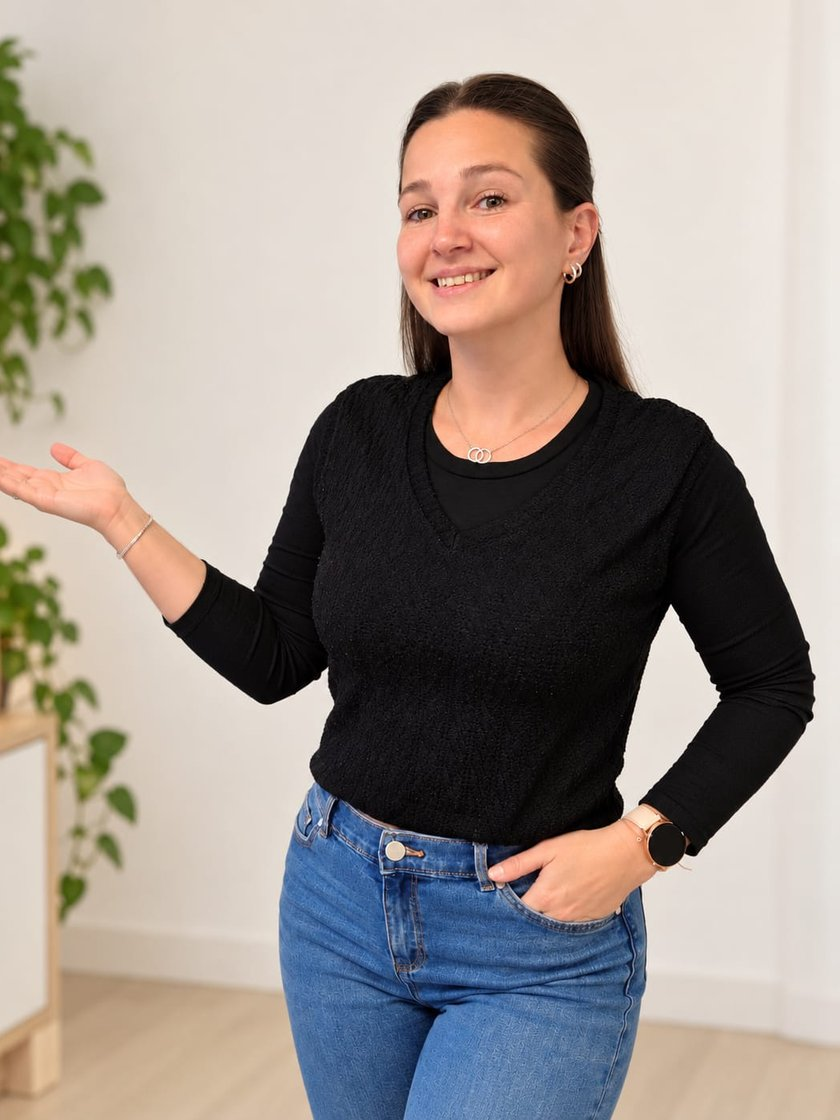
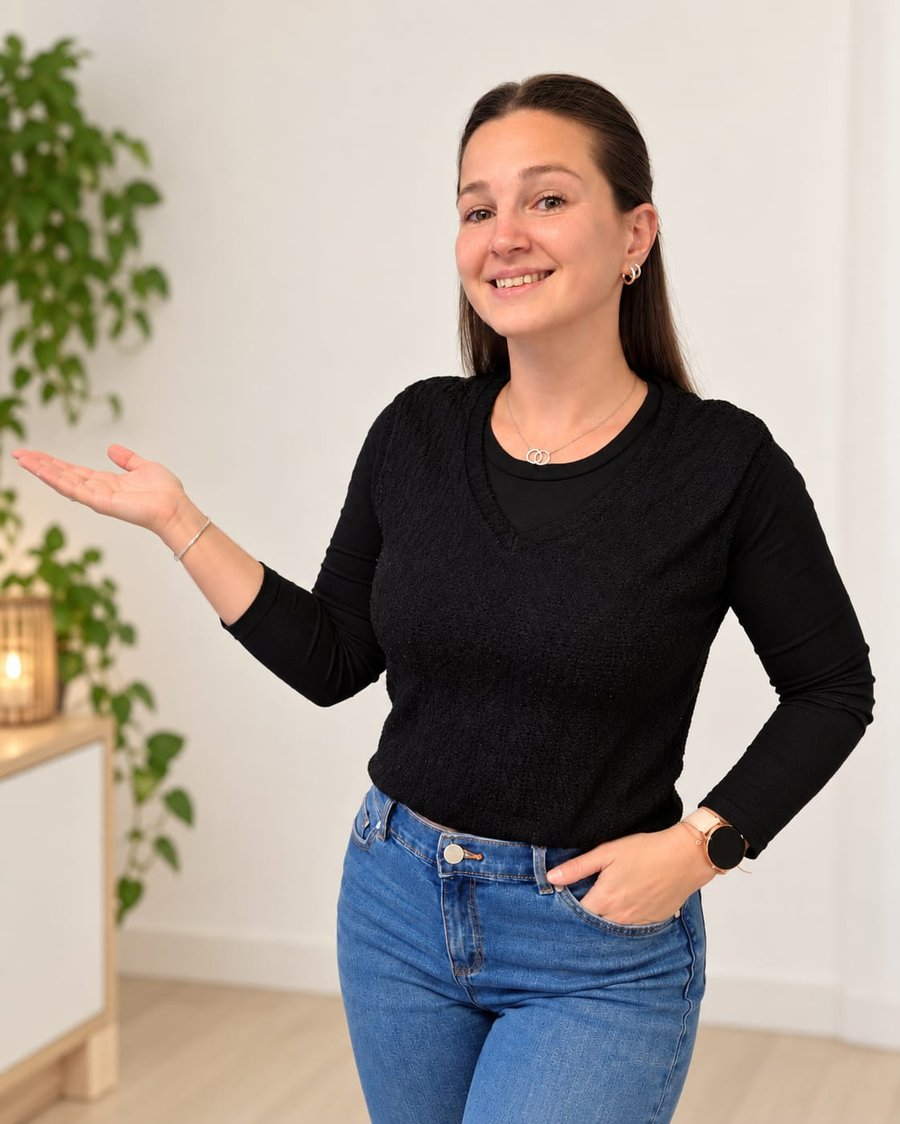
Add files via upload

diff --git a/index.html b/index.html
@@ -81,7 +81,7 @@
     </div>
 
     <figure class="hero__foto">
-      <img src="/img/home-hero.jpg" alt="Marina Santor sonriendo, con la mano abierta en gesto de bienvenida" width="840" height="1120">
+      <img src="/img/home-hero.jpg" alt="Marina Santor sonriendo, con la mano abierta en gesto de bienvenida" width="900" height="1124">
     </figure>
   </div>
 </section>
@@ -280,13 +280,9 @@
 <!-- ================= NADAENSULUGAR ================= -->
 <section class="sec sec--nadaensulugar" id="nadaensulugar">
   <div class="env partido">
-    <div class="marco marco--ancho">
-      <div class="marco__tx">
-        <svg viewBox="0 0 24 24" fill="none" stroke="currentColor" stroke-width="1.5" aria-hidden="true"><rect x="3" y="5" width="18" height="14" rx="2"/><circle cx="9" cy="10" r="1.8"/><path d="M3 17l5-4.5 4 3.5 3-2.5 6 5"/></svg>
-        <b>Foto del espacio presencial</b>
-        <span>Ambiente Montessori de NADAENSULUGAR, apaisada y luminosa</span>
-      </div>
-    </div>
+    <figure class="nesl-foto">
+      <img src="/img/nesl-espacio.jpg" alt="NADAENSULUGAR, espacio para la niñez" width="1440" height="900" loading="lazy">
+    </figure>
 
     <div class="partido__tx">
       <h2 class="nesl__marca">NADAENSULUGAR</h2>
@@ -311,17 +307,17 @@
 
     <div class="testis">
       <article class="testi">
-        <p>&ldquo;Feliz día Maruuuu! Te queremos mucho, gracias por haber sido vos quien nos marcó el comienzo de este camino. Besitos enormes!!&rdquo;</p>
+        <p>&ldquo;Qué lindo tener un espacio así para los peques!! Tuvimos la oportunidad de ir y es sumamente necesario que existan espacios como NADAENSULUGAR.&rdquo;</p>
         <span class="testi__quien">Familia de NADAENSULUGAR</span>
         <svg class="testi__cor" viewBox="0 0 24 24" fill="currentColor" aria-hidden="true"><path d="M12 21c-5-4-8-6.5-8-10a4.2 4.2 0 0 1 8-2 4.2 4.2 0 0 1 8 2c0 3.5-3 6-8 10Z"/></svg>
       </article>
       <article class="testi">
-        <p>&ldquo;Feliz día Maruuuu! Te queremos mucho, gracias por haber sido vos quien nos marcó el comienzo de este camino. Besitos enormes!!&rdquo;</p>
+        <p>&ldquo;Nuestro primer lugar que sentimos como propio. Gracias por cada momento maravilloso.&rdquo;</p>
         <span class="testi__quien">Familia de NADAENSULUGAR</span>
         <svg class="testi__cor" viewBox="0 0 24 24" fill="currentColor" aria-hidden="true"><path d="M12 21c-5-4-8-6.5-8-10a4.2 4.2 0 0 1 8-2 4.2 4.2 0 0 1 8 2c0 3.5-3 6-8 10Z"/></svg>
       </article>
       <article class="testi">
-        <p>&ldquo;Feliz día Maruuuu! Te queremos mucho, gracias por haber sido vos quien nos marcó el comienzo de este camino. Besitos enormes!!&rdquo;</p>
+        <p>&ldquo;Maruuuu! Gracias por haber sido vos quien nos marcó el comienzo de este camino.&rdquo;</p>
         <span class="testi__quien">Familia de NADAENSULUGAR</span>
         <svg class="testi__cor" viewBox="0 0 24 24" fill="currentColor" aria-hidden="true"><path d="M12 21c-5-4-8-6.5-8-10a4.2 4.2 0 0 1 8-2 4.2 4.2 0 0 1 8 2c0 3.5-3 6-8 10Z"/></svg>
       </article>

diff --git a/assets/estilos.css b/assets/estilos.css
@@ -186,12 +186,12 @@ p:last-child{margin-bottom:0}
 /* ---------- hero ---------- */
 
 .hero{padding:clamp(34px,3.4vw,54px) 0 clamp(40px,4vw,62px);background:linear-gradient(170deg,var(--marfil) 0%,var(--crema) 62%,var(--rosa-cl) 100%)}
-.hero__in{display:grid;grid-template-columns:58fr 42fr;gap:clamp(24px,3.4vw,52px);align-items:center}
+.hero__in{display:grid;grid-template-columns:57fr 43fr;gap:clamp(24px,3.4vw,52px);align-items:center}
 
 /* Fotografía del hero, vertical y con recuadro delineado */
-.hero__foto{position:relative;width:100%;max-width:360px;margin-inline:auto}
+.hero__foto{position:relative;width:100%;max-width:380px;margin-inline:auto}
 .hero__foto img{
-  width:100%;aspect-ratio:3/4;object-fit:cover;object-position:center 12%;
+  width:100%;height:auto;          /* proporción original de la foto, sin recortes */
   border-radius:20px;display:block;
   box-shadow:0 26px 48px -36px rgba(74,74,71,.55);
 }
@@ -212,7 +212,7 @@ p:last-child{margin-bottom:0}
 
 @media (max-width:900px){
   .hero__in{grid-template-columns:1fr}
-  .hero__foto{order:2;max-width:300px;margin:0 auto}
+  .hero__foto{order:2;max-width:320px;margin:0 auto}
   .hero__tx{order:1}
   .hero .nota--1,.hero .nota--2{display:none}
 }
@@ -699,3 +699,10 @@ a.card{text-decoration:none;color:inherit}
   #marina .partido__tx p,
   #nadaensulugar .partido__tx p{text-align:left}
 }
+
+/* ---------- imagen del espacio presencial en la portada ---------- */
+.nesl-foto{
+  width:100%;border-radius:22px;overflow:hidden;
+  box-shadow:0 26px 48px -36px rgba(74,74,71,.5);
+}
+.nesl-foto img{width:100%;height:auto;display:block}
